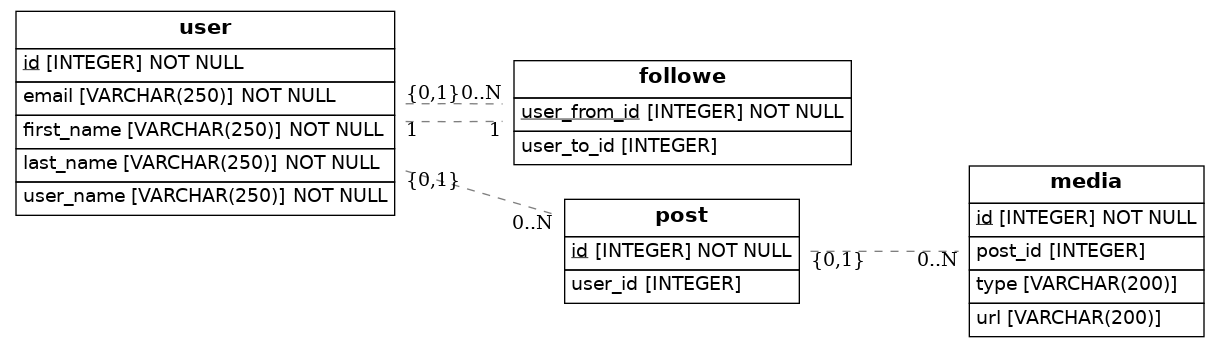
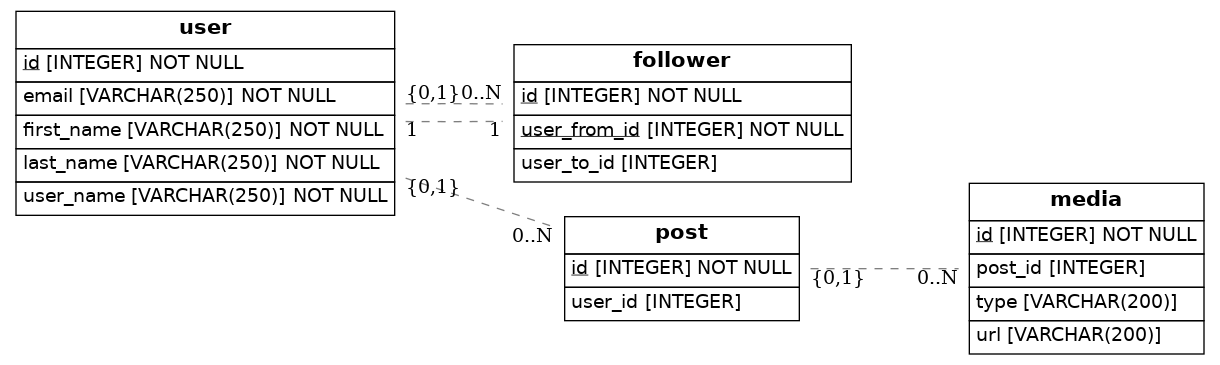
ya ta

diff --git a/src/models.py b/src/models.py
@@ -7,11 +7,6 @@ from eralchemy2 import render_er
 
 Base = declarative_base()
 
-class Follower(Base):
-    __tablename__ = 'followe'
-    user_from_id = Column(Integer, ForeignKey('user.id'), primary_key=True)
-    user_to_id = Column(Integer, ForeignKey('user.id'))
-
 class User(Base):
     __tablename__ = 'user'
     id = Column(Integer, primary_key=True)
@@ -19,6 +14,13 @@ class User(Base):
     first_name = Column(String(250), nullable=False)
     last_name = Column(String(250), nullable=False)
     email = Column(String(250), nullable=False)
+
+class Follower(Base):
+    __tablename__ = 'follower'
+    id = Column(Integer, primary_key=True)
+    user_from_id = Column(Integer, ForeignKey('user.id'), primary_key=True)
+    user_to_id = Column(Integer, ForeignKey('user.id'))
+
     
 class Post(Base):
     __tablename__ = 'post'
